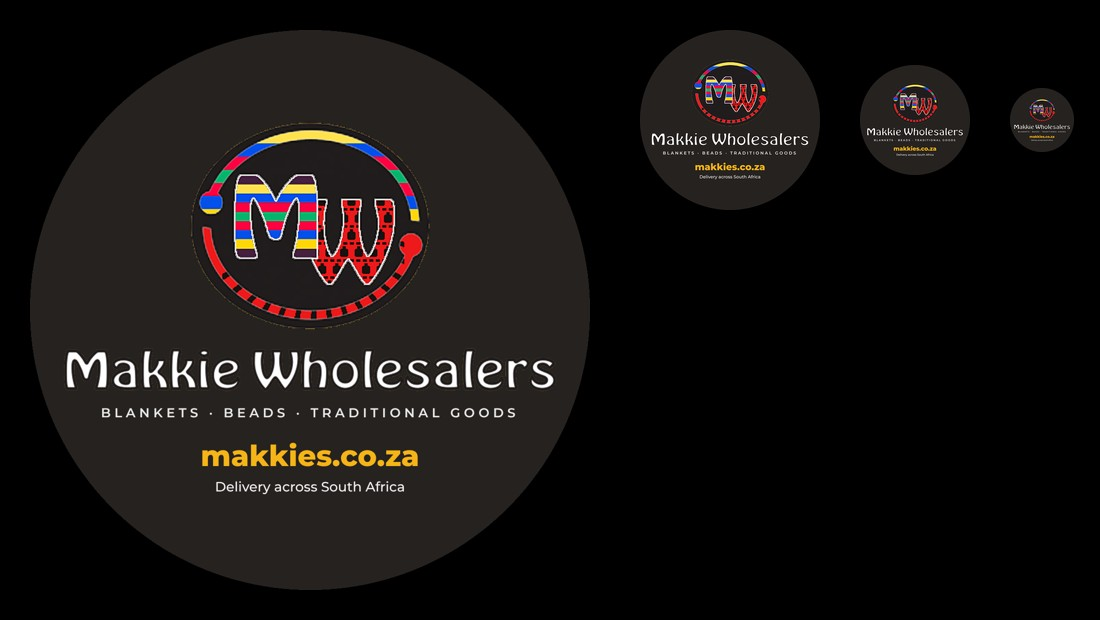
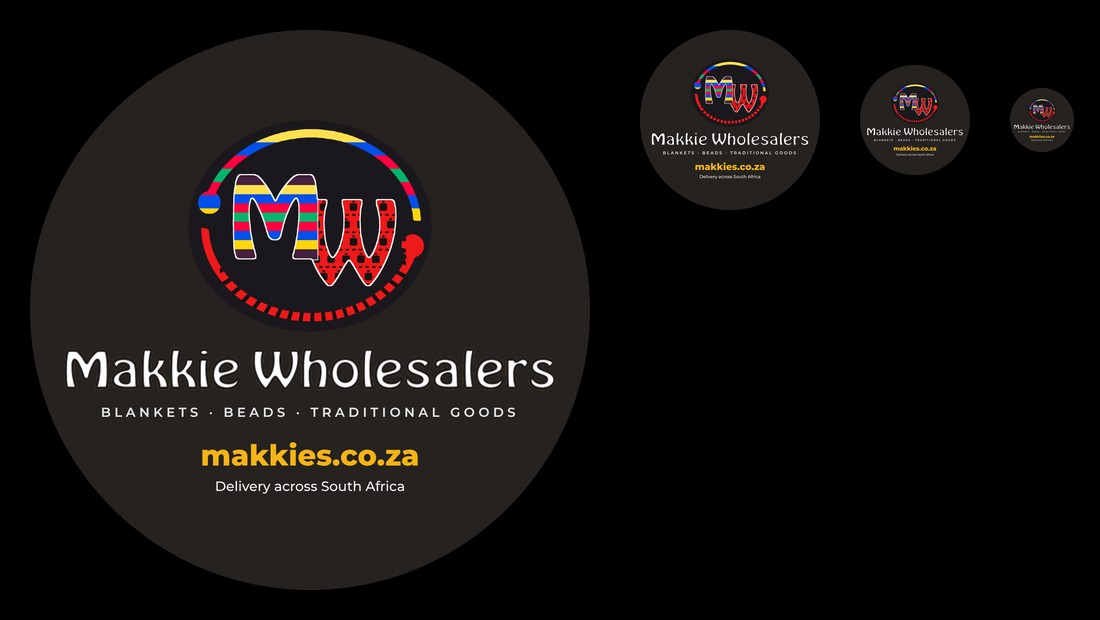
Neater MW oval (redrawn at 8x from the original shapes), new tagline, updated profile picture
Claude-Session: https://claude.ai/code/session_01FrAdmZhbnvV2Pi8Ea2YxmY

diff --git a/marketing/logo/build-mw-oval.py b/marketing/logo/build-mw-oval.py
@@ -1,0 +1,68 @@
+import numpy as np
+from PIL import Image, ImageDraw, ImageFilter
+S=8; PAD=10; x0,y0=690-PAD,35
+lab=np.pad(np.load('lab.npy'),((0,0),(PAD,0))); H,W=lab.shape
+src=np.asarray(Image.open('x/im-001.png').convert('RGB')).astype(float)[y0:y0+H,x0:x0+W]
+ban=np.asarray(Image.open('assets/banner.png').convert('RGBA'))[y0:y0+H,x0:x0+W]
+wgt=np.clip((src.min(2)-40)/(230-40),0,1)          # how "white" each pixel is in the original
+def dil(m,k):
+    o=m.copy()
+    for dy in range(-k,k+1):
+        for dx in range(-k,k+1): o|=np.roll(np.roll(m,dy,0),dx,1)
+    return o
+def smooth(soft):     # soft 0..1 mask at 1x -> smooth binary mask at Sx
+    im=Image.fromarray((soft*255).astype(np.uint8),'L').resize((W*S,H*S),Image.BICUBIC).filter(ImageFilter.GaussianBlur(S*0.7))
+    return np.asarray(im)>127
+letters=dil(lab==2,2)&~dil((lab==1)|(lab==3),2)
+L=smooth(wgt*letters); T=smooth(wgt*(dil(lab==1,1)&~letters)); B=smooth(wgt*(dil(lab==3,1)&~letters))
+yy,xx=np.mgrid[0:H*S,0:W*S]; X=xx/S+x0; Y=yy/S+y0
+isM=L&(X<843)&(Y<212); isW=L&~isM
+# oval: perfect ellipse fitted to the original black circle
+ex0,ex1,ey0,ey1=687-x0,981-x0,44-y0,299-y0
+print('oval bbox',ex0,ex1,ey0,ey1)
+out=Image.new('RGBA',(W*S,H*S),(0,0,0,0)); d=ImageDraw.Draw(out)
+d.ellipse((ex0*S,ey0*S,ex1*S-1,ey1*S-1),fill=(27,24,29,255))
+o=np.asarray(out).copy()
+# colours
+logo=np.asarray(Image.open('assets/logo_new.png').convert('RGB')).astype(float)
+col=logo[22:338,55]
+def stripes(mask,y_from,y_to,c):
+    idx=np.clip(((Y-y_from)/(y_to-y_from)*len(c)).astype(int),0,len(c)-1)
+    return c[idx]
+my0,my1=Y[isM].min(),Y[isM].max()
+Mfill=stripes(isM,my0,my1+1/S,col)
+bright=col[37:276]
+ty0,ty1=Y[T].min(),Y[T].max()
+Tfill=stripes(T,ty0,ty1+1/S,bright)
+# W pattern at Sx
+wx0,wy0=int(X[isW].min()),int(Y[isW].min())
+tw,th=int(X[isW].max()-wx0+2)*S,int(Y[isW].max()-wy0+2)*S
+tex=Image.new('RGB',(tw,th),(237,25,27)); td=ImageDraw.Draw(tex); P=21*S; K=(26,18,16)
+for r,ty in enumerate(range(-4*S,th,P)):
+    for dx in range(0,tw,8*S): td.rectangle((dx,ty,dx+4*S,ty+2*S),fill=K)
+    off=0 if r%2==0 else 9*S
+    for mx in range(-9*S+off,tw,18*S):
+        td.rectangle((mx+3*S,ty+5*S,mx+6*S,ty+7*S),fill=K)
+        td.rounded_rectangle((mx,ty+8*S,mx+9*S,ty+17*S),radius=2*S,fill=K)
+tex=np.asarray(tex).astype(float)
+Wfill=tex[np.clip(((Y-wy0)*S).astype(int),0,th-1),np.clip(((X-wx0)*S).astype(int),0,tw-1)]
+# bottom ring: red with black dashes by angle (same as before)
+cx,cy=841,172
+ang=(np.degrees(np.arctan2(Y-cy,X-cx))+360)%360
+Bfill=np.where(((ang%7)<2.4)[...,None]&((X>725)&(X<950))[...,None],np.array([26,18,16.]),np.array([237,25,27.]))
+# white outline around the letters + seam between M and W
+def dilS(m,r):
+    im=Image.fromarray((m*255).astype(np.uint8)).filter(ImageFilter.MaxFilter(2*r+1)); return np.asarray(im)>127
+ring=T|B
+outline=dilS(L,int(1.3*S)|1)&~L&~dilS(ring,S//2|1)
+seamW=dilS(isM,int(0.9*S)|1)&isW
+o=o.astype(float)
+for m,f in ((T,Tfill),(B,Bfill)): o[m,:3]=f[m]; o[m,3]=255
+o[outline,:3]=255; o[outline,3]=255
+o[isW,:3]=Wfill[isW]; o[isM,:3]=Mfill[isM]
+o[seamW,:3]=255
+o[L,3]=255
+im=Image.fromarray(o.astype(np.uint8),'RGBA').crop((ex0*S-2,ey0*S-2,ex1*S+2,ey1*S+2))
+im.save('emblem_neat_8x.png'); print(im.size)
+bg=Image.new('RGBA',im.size,(255,255,255,255)); bg.alpha_composite(im)
+bg.convert('RGB').resize((im.width//4,im.height//4),Image.LANCZOS).save('emblem_neat_chk.png')
